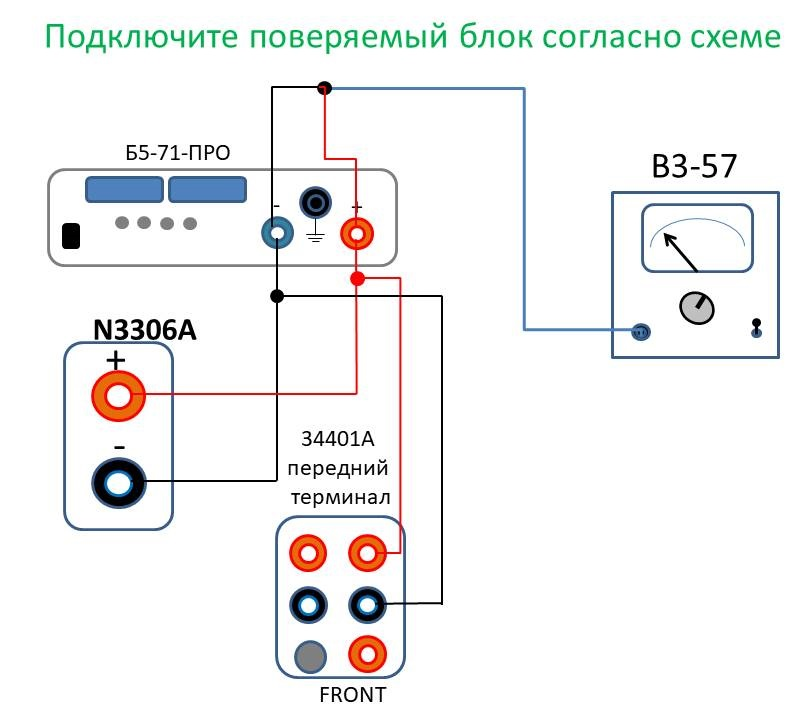
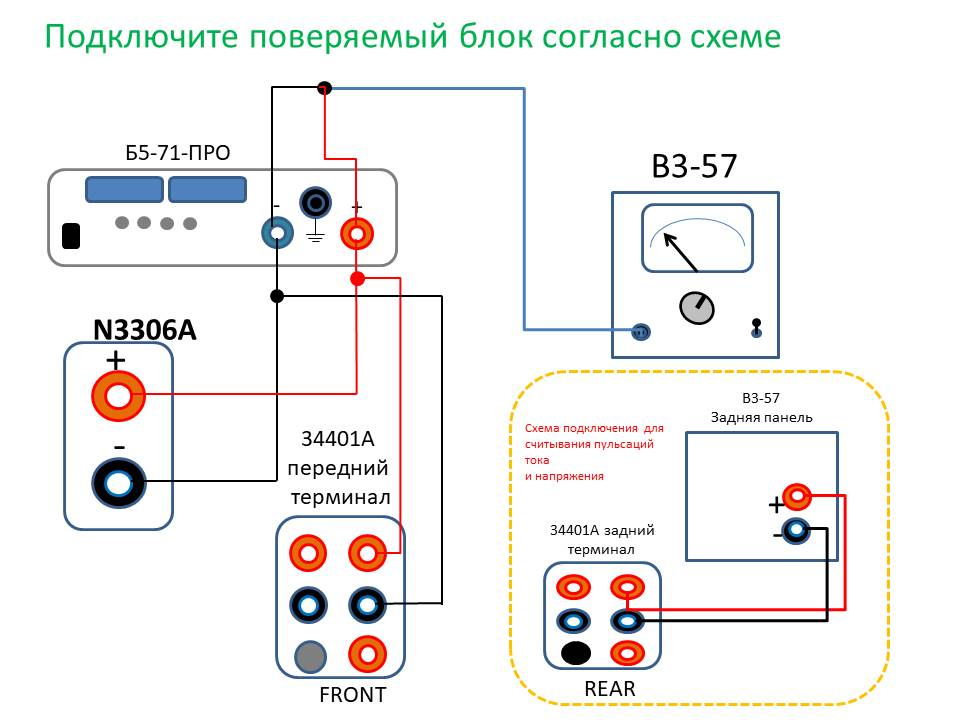
Картинки не показывались теперь сами начали показываться...
Доделки калибратора 9500

Изменены картинки для блоков питания.

diff --git a/ASMC.Devices/IEEE/Fluke/CalibtatorOscilloscope/Calibr_9500B.cs b/ASMC.Devices/IEEE/Fluke/CalibtatorOscilloscope/Calibr_9500B.cs
@@ -2,6 +2,8 @@
 // PVS-Studio Static Code Analyzer for C, C++ and C#: http://www.viva64.com
 
 using System;
+using System.Globalization;
+using AP.Utils.Data;
 using AP.Utils.Helps;
 
 namespace ASMC.Devices.IEEE.Fluke.CalibtatorOscilloscope
@@ -38,6 +40,15 @@ namespace ASMC.Devices.IEEE.Fluke.CalibtatorOscilloscope
             Source = new CSource(this);
             Route = new ROUTe(this);
             AuxFunc = new AUXFunctional(this);
+            Multipliers = Multipliers = new ICommand[]
+            {
+                new Command("N", "н", 1E-9),
+                new Command("U", "мк", 1E-6),
+                new Command("M", "м", 1E-3),
+                new Command("", "", 1),
+                //new Command("K", "к", 1E3)
+
+            };
         }
 
         /// <summary>
@@ -117,6 +128,15 @@ namespace ASMC.Devices.IEEE.Fluke.CalibtatorOscilloscope
             public CSource(Calibr9500B calibrMain)
             {
                 _calibrMain = calibrMain;
+                Multipliers = Multipliers = new ICommand[]
+                {
+                    new Command("N", "н", 1E-9),
+                    new Command("U", "мк", 1E-6),
+                    new Command("M", "м", 1E-3),
+                    new Command("", "", 1),
+                    //new Command("K", "к", 1E3)
+
+                };
             }
 
             #region Methods
@@ -140,6 +160,19 @@ namespace ASMC.Devices.IEEE.Fluke.CalibtatorOscilloscope
             {
                 _calibrMain.WriteLine($@"SOUR:FREQ {JoinValueMult(value, mult)}");
                 return _calibrMain;
+            }
+
+            /// <summary>
+            /// Возвращает значение установленной частоты.
+            /// </summary>
+            /// <returns>Значение частоты в decimal.</returns>
+
+            public decimal GetFreq()
+            {
+                string answer = _calibrMain.QueryLine("SOUR:FREQ?");
+                var arr = answer.Replace(".", CultureInfo.CurrentCulture.NumberFormat.CurrencyDecimalSeparator)
+                                .Split('E');
+                return (decimal) decimal.Parse(arr[0]) * (decimal) (Math.Pow(10, double.Parse(arr[1])));
             }
 
             /// <summary>
@@ -175,6 +208,18 @@ namespace ASMC.Devices.IEEE.Fluke.CalibtatorOscilloscope
                 return _calibrMain;
             }
 
+            /// <summary>
+            /// Считывает значение напряжения на выходе канала.
+            /// </summary>
+            /// <returns>Значение напряжения типа decimal.</returns>
+            public decimal GetVoltage()
+            {
+                string answer = _calibrMain.QueryLine("SOUR:VOLT?");
+               string[] var = answer.TrimEnd('\n').Replace(".", CultureInfo.CurrentCulture.NumberFormat.CurrencyDecimalSeparator).Split('E');
+
+                return decimal.Parse(var[0])* (decimal)(Math.Pow(10, double.Parse(var[1])));
+            }
+
             #endregion
 
             /// <summary>
@@ -196,6 +241,7 @@ namespace ASMC.Devices.IEEE.Fluke.CalibtatorOscilloscope
                     public DC(Calibr9500B calibr)
                     {
                         _calibrMain = calibr;
+                        
                     }
 
                     #region Methods
@@ -350,7 +396,7 @@ namespace ASMC.Devices.IEEE.Fluke.CalibtatorOscilloscope
                     /// </summary>
                     /// <param name = "Se"></param>
                     /// <returns></returns>
-                    public Calibr9500B SetDerection(Direction Der)
+                    public Calibr9500B SetDirection(Direction Der)
                     {
                         _calibrMain.WriteLine("SOUR:PAR:EDGE:TRAN " + Der);
                         return _calibrMain;
@@ -402,12 +448,12 @@ namespace ASMC.Devices.IEEE.Fluke.CalibtatorOscilloscope
                     /// <summary>
                     /// 50 ОМ
                     /// </summary>
-                    Res_50 = 50,
+                   [StringValue("5.000000E+01")] Res_50 = 50,
 
                     /// <summary>
                     /// 1 МОм
                     /// </summary>
-                    Res_1M = 1000
+                    [StringValue("1.000000E+06")]Res_1M = 1000000
                 }
 
                 #region Fields
@@ -445,6 +491,19 @@ namespace ASMC.Devices.IEEE.Fluke.CalibtatorOscilloscope
                 {
                     _calibMain.WriteLine("ROUT:SIGN:IMP " + (int) imp);
                     return _calibMain;
+                }
+
+                /// <summary>
+                /// Позволяет полчить значение импеданса текущего рабочего канала.
+                /// </summary>
+                /// <returns></returns>
+                public Impedans GetImpedans()
+                {
+                    string answer = _calibMain.QueryLine("ROUT: SIGN:IMP?");
+                    var val = answer.TrimEnd('\n').Replace(".", ",").Split('E');
+
+                    return (Impedans)((int)(double.Parse(val[0]) * Math.Pow(10, double.Parse(val[1]))));
+                   
                 }
 
                 #endregion

diff --git a/ASMC.Core/Model/OperationMetrControlBase.cs b/ASMC.Core/Model/OperationMetrControlBase.cs
@@ -108,7 +108,7 @@ namespace ASMC.Core.Model
         public async Task StartWorkAsync(CancellationTokenSource source)
         {
             var count = 0;
-            LastShem = null;
+            //LastShem = null;
             foreach (var userItemOperationBase in SelectedOperation.UserItemOperation)
                 count+=CountNode(userItemOperationBase);
 
